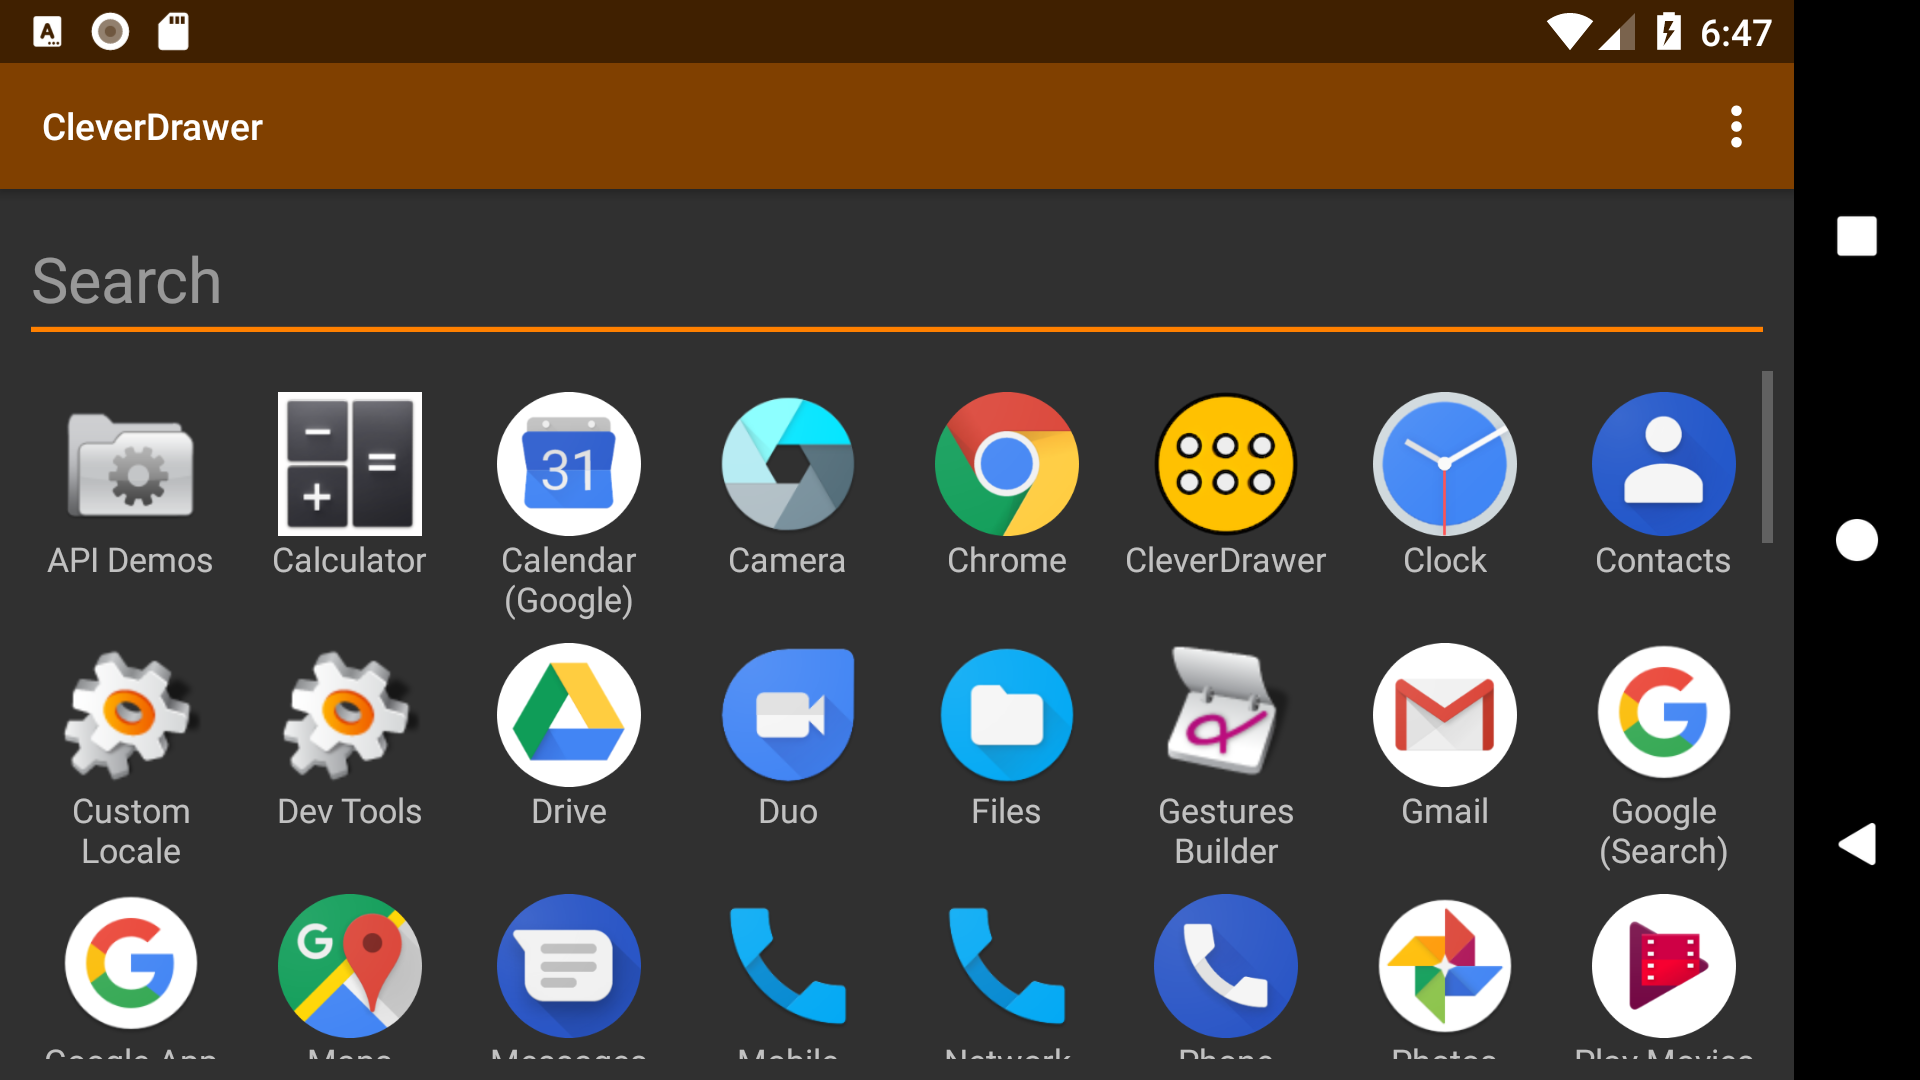
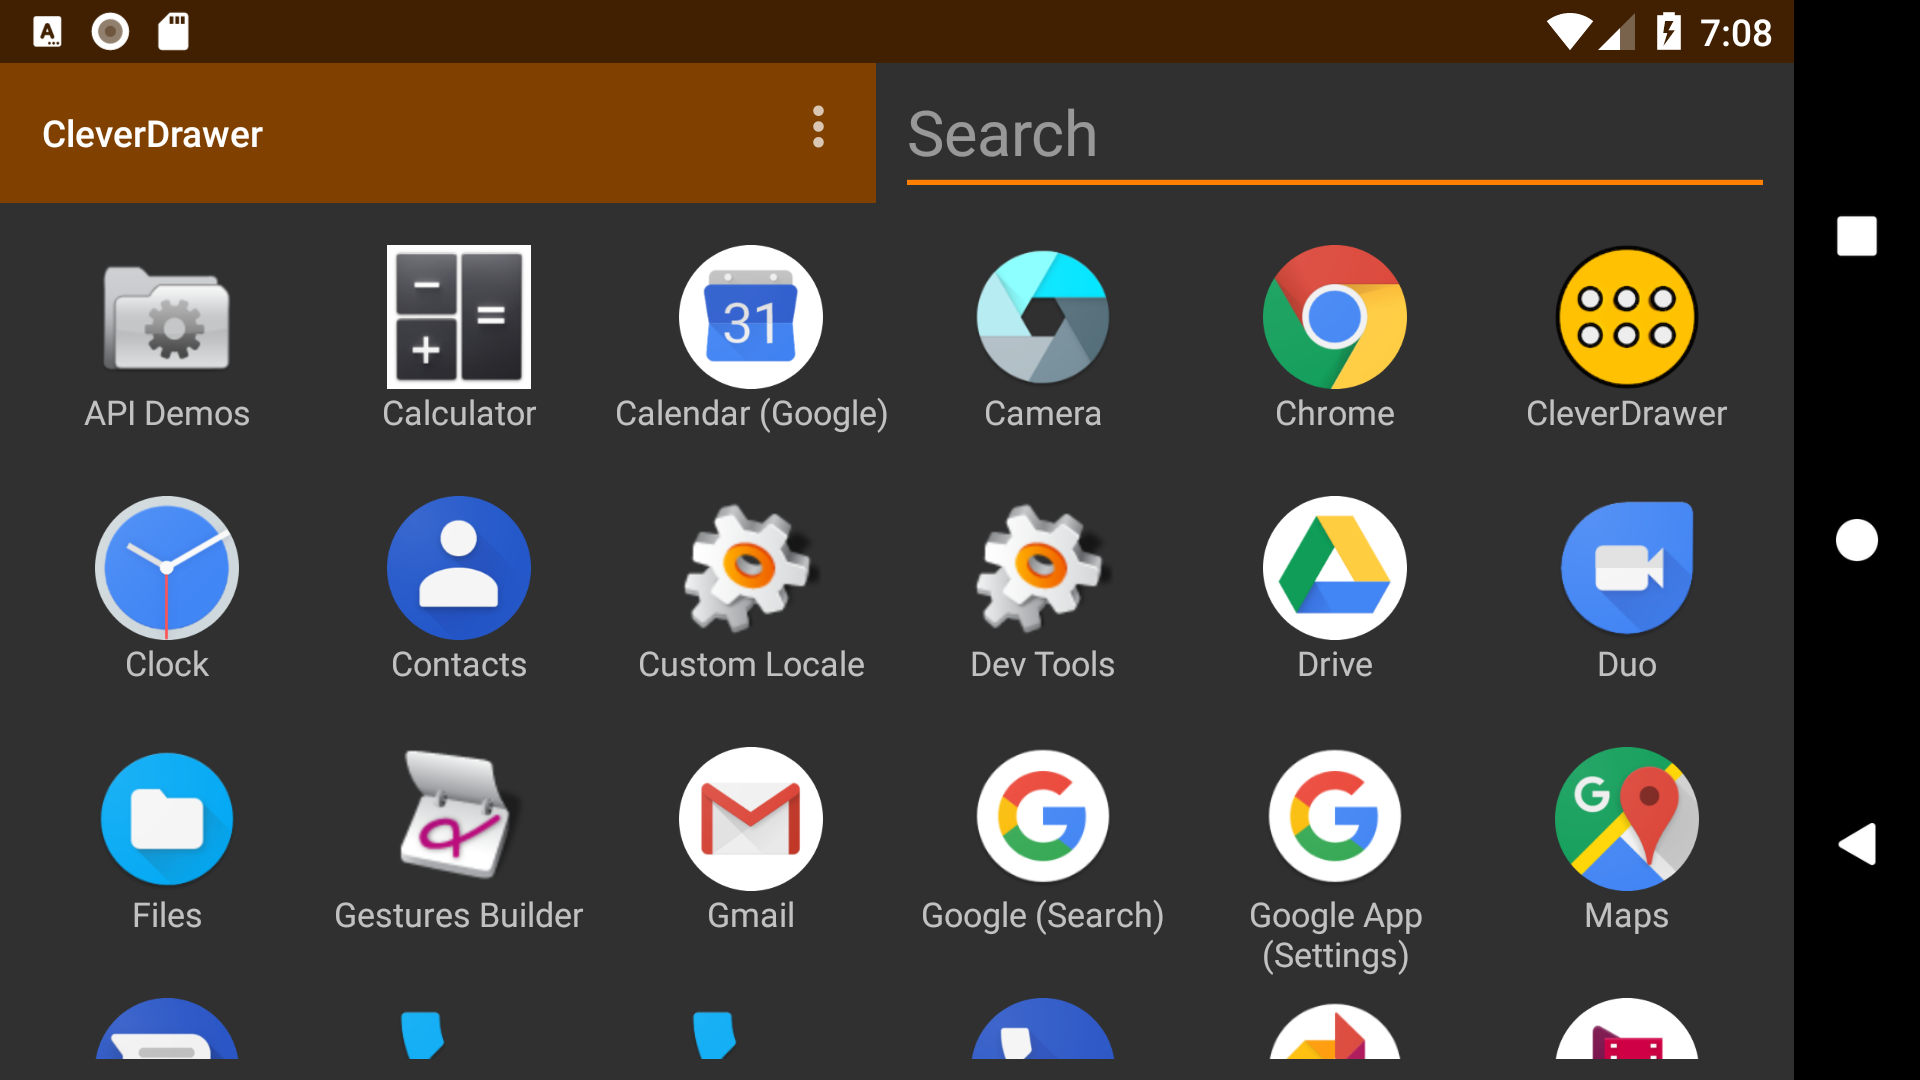
Landscape: Put search next to toolbar
Also, make spacing less dense in landscape mode, this looks nicer.

diff --git a/app/src/main/java/com/gmail/walles/johan/cleverdrawer/MainActivity.java b/app/src/main/java/com/gmail/walles/johan/cleverdrawer/MainActivity.java
@@ -38,12 +38,17 @@ import android.support.v4.content.ContextCompat;
 import android.support.v4.content.FileProvider;
 import android.support.v7.app.AppCompatActivity;
 import android.support.v7.widget.Toolbar;
+import android.text.Editable;
+import android.text.TextWatcher;
 import android.view.Menu;
 import android.view.MenuItem;
+import android.widget.EditText;
+import android.widget.GridView;
 
 import com.crashlytics.android.answers.CustomEvent;
 
 import java.io.File;
+import java.io.IOException;
 import java.util.Arrays;
 
 import timber.log.Timber;
@@ -58,9 +63,59 @@ public class MainActivity extends AppCompatActivity {
     @Override
     protected void onCreate(Bundle savedInstanceState) {
         super.onCreate(savedInstanceState);
+
+        Timer timer = new Timer();
+        timer.addLeg("Inflating View");
+
         setContentView(R.layout.activity_main);
         Toolbar toolbar = findViewById(R.id.toolbar);
         setSupportActionBar(toolbar);
+
+        final File launchHistoryFile = MainActivity.getLaunchHistoryFile(this);
+        final File cacheFile = new File(getFilesDir(), "nameCache.json");
+
+        timer.addLeg("Finding GridView");
+        GridView gridView = findViewById(R.id.iconGrid);
+        timer.addLeg("Constructing Adapter");
+        LaunchableAdapter adapter =
+                new LaunchableAdapter(this, launchHistoryFile, cacheFile);
+        gridView.setAdapter(adapter);
+        timer.addLeg("Setting up Listener");
+        gridView.setOnItemClickListener((adapterView, view1, position, id) -> {
+            Launchable launchable = (Launchable)adapterView.getItemAtPosition(position);
+            Timber.i("Launching %s (%s)...", launchable.getName(), launchable.getId());
+            startActivity(launchable.getLaunchIntent());
+            try {
+                DatabaseUtils.registerLaunch(launchHistoryFile, launchable);
+            } catch (IOException e) {
+                Timber.e(e, "Failed to register " + launchable.getName() + " launch: " + launchable.getId());
+            }
+
+            LoggingUtils.logCustom(new CustomEvent("Launched Other App"));
+
+            finish();
+        });
+
+        timer.addLeg("Finding Search Box");
+        EditText searchBox = findViewById(R.id.searchBox);
+        searchBox.addTextChangedListener(new TextWatcher() {
+            @Override
+            public void beforeTextChanged(CharSequence s, int start, int count, int after) {
+                // This block intentionally left blank
+            }
+
+            @Override
+            public void onTextChanged(CharSequence s, int start, int before, int count) {
+                // This block intentionally left blank
+            }
+
+            @Override
+            public void afterTextChanged(Editable s) {
+                adapter.setFilter(s);
+            }
+        });
+
+        Timber.i("onCreateView() timings: %s", timer.toString());
     }
 
     @Override

diff --git a/README.md b/README.md
@@ -30,7 +30,6 @@ also a good way of researching Travis problems locally.
 5. `git push --tags`
 
 # TODO Misc
-* In landscape mode, put the search bar next to or inside the top toolbar
 * Speed up reading names from cache; it takes 256ms of the 600ms startup time
 * Move names caching into `IntentLaunchable`
 * Put a clear-the-search-box button inside the search box.
@@ -139,3 +138,4 @@ button.
 * Put a link to the source code in the ... menu
 * Fix `@Nullable` related warnings
 * Make a pre-commit hook that runs `gradlew check --continue`
+* In landscape mode, put the search bar next to or inside the top toolbar
